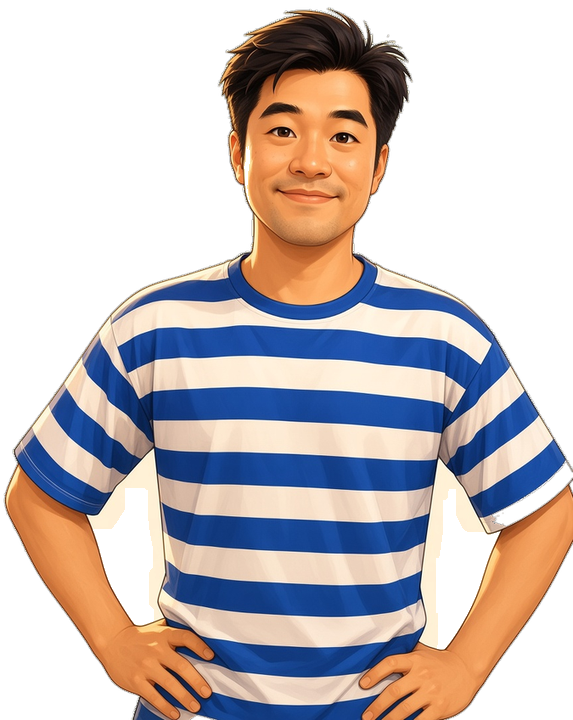
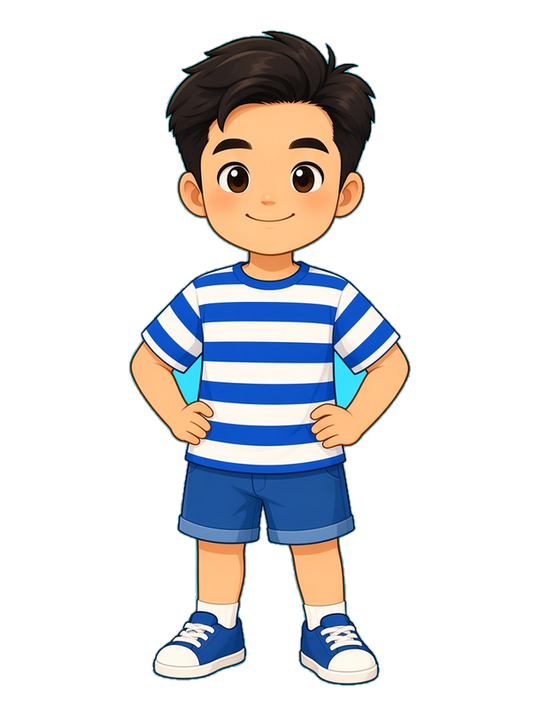
主畫面 3D 眠花糖加大加亮，角色全面改成統一 Q 版立繪
眠花糖改為暖白卡通著色與深藍描邊，放大約 1.5 倍，用三分之四側面讓尾巴黃星露出，跳躍時有壓扁拉長和星星閃光。七名角色依演員介紹卡重繪成 Travel Town 風格的 Q 版 2.5D，保留服裝與髮型辨識度。

diff --git a/js/mascot.js b/js/mascot.js
@@ -1,8 +1,9 @@
 /**
  * 眠花糖 on the play screen.
- * Primary: official TuZi.obj decimated GLB, toon shading + ink outline,
- * idle bounce and a happy jump on merge / order complete.
- * Fallback: official 2D three-view drawings with the same bounce/jump.
+ * Official TuZi GLB with warm toon shading + navy outline,
+ * 3/4 camera so the yellow tail star stays visible,
+ * squash-and-stretch bounce, sparkles on jump.
+ * Fallback: official 2D art with the same animation.
  */
 const POSES = {
   idle: "assets/mascot/front.png",
@@ -21,8 +22,9 @@ const POSES = {
 export function mountMascot(root) {
   root.innerHTML = `
     <div class="mascot-stage">
-      <canvas class="mascot-3d" width="360" height="360" aria-hidden="true"></canvas>
+      <canvas class="mascot-3d" width="512" height="512" aria-hidden="true"></canvas>
       <img class="mascot-2d" alt="眠花糖" src="${POSES.idle}">
+      <div class="mascot-sparkles" aria-hidden="true"><span></span><span></span><span></span><span></span><span></span><span></span></div>
       <div class="mascot-bubble" hidden></div>
     </div>`;
   const img = root.querySelector(".mascot-2d");
@@ -32,11 +34,11 @@ export function mountMascot(root) {
   let pose = "idle";
   let timer = 0;
   let moodUntil = 0;
-  let jump = 0;       // 0–1 jump envelope
+  let jump = 0;
   let jumpVel = 0;
   let targetBounce = 0;
   let mode3d = false;
-  const anim = { bounce: 0, squish: 1, tilt: 0, spin: 0 };
+  const anim = { bounce: 0, squish: 1, tilt: 0, spin: 0, jump: 0 };
 
   function setPose(name, ms = 900) {
     pose = name;
@@ -46,8 +48,8 @@ export function mountMascot(root) {
 
   function startJump(power = 1) {
     jump = Math.max(jump, 0.05);
-    jumpVel = 0.055 * power;
-    targetBounce = 18 * power;
+    jumpVel = 0.062 * power;
+    targetBounce = 22 * power;
   }
 
   function say(text, ms = 1600) {
@@ -74,11 +76,10 @@ export function mountMascot(root) {
 
   function tick(t) {
     timer = t / 1000;
-    // jump physics
     if (jumpVel !== 0 || jump > 0) {
       jump += jumpVel;
-      jumpVel -= 0.0032;
-      if (jump < 0) { jump = 0; jumpVel = jumpVel * -0.35; if (Math.abs(jumpVel) < 0.01) jumpVel = 0; }
+      jumpVel -= 0.0034;
+      if (jump < 0) { jump = 0; jumpVel = jumpVel * -0.38; if (Math.abs(jumpVel) < 0.01) jumpVel = 0; }
     }
     if (performance.now() > moodUntil && !mode3d) {
       const cycle = Math.floor(timer / 3) % 4;
@@ -89,11 +90,14 @@ export function mountMascot(root) {
       }
     }
     targetBounce += (0 - targetBounce) * 0.07;
-    const idleBob = Math.sin(timer * 3.2) * 10;
-    anim.bounce = idleBob + jump * 86 + targetBounce;
-    anim.squish = 1 + Math.sin(timer * 3.2) * 0.05 - jump * 0.18;
-    anim.tilt = Math.sin(timer * 1.5) * 4;
-    anim.spin = Math.sin(timer * 0.7) * 0.28;
+    const idleBob = Math.sin(timer * 3.4) * 14;
+    anim.bounce = idleBob + jump * 96 + targetBounce;
+    // squash on land / stretch at peak
+    const jumpStretch = jump > 0.2 ? -0.16 : (jumpVel < -0.02 ? 0.14 : 0);
+    anim.squish = 1 + Math.sin(timer * 3.4) * 0.07 + jumpStretch;
+    anim.tilt = Math.sin(timer * 1.35) * 5;
+    anim.spin = Math.sin(timer * 0.85) * 0.22;
+    anim.jump = jump;
     const sy = anim.squish, sx = 2 - sy;
     if (!mode3d) {
       img.style.transform = `translateY(${-anim.bounce}px) rotate(${anim.tilt}deg) scale(${sx}, ${sy})`;
@@ -132,46 +136,108 @@ async function boot3d(canvas, img, getAnim, onReady, onFail) {
   const THREE = await import("three");
   const { GLTFLoader } = await import("three/addons/loaders/GLTFLoader.js");
   const scene = new THREE.Scene();
-  const camera = new THREE.PerspectiveCamera(36, 1, 0.1, 40);
-  camera.position.set(1.7, 1.35, 4.8);
-  camera.lookAt(0, 1.0, 0);
+  // Closer 3/4 camera so the bunny fills the stage and the tail star peeks out.
+  const camera = new THREE.PerspectiveCamera(30, 1, 0.1, 40);
+  // Distance ~4.3 so the full 2-unit-tall bunny (with feet and tail star) fits.
+  camera.position.set(2.45, 1.28, 3.85);
+  camera.lookAt(0.0, 0.96, 0);
+
   const renderer = new THREE.WebGLRenderer({ canvas, alpha: true, antialias: true, preserveDrawingBuffer: true });
   renderer.setPixelRatio(Math.min(devicePixelRatio, 2));
-  const fit = () => {
-    const w = canvas.clientWidth || 360, h = canvas.clientHeight || 360;
-    renderer.setSize(w, h, false);
-    camera.aspect = w / Math.max(1, h);
-    camera.updateProjectionMatrix();
-  };
-  fit();
-  new ResizeObserver(fit).observe(canvas.parentElement || canvas);
+  renderer.setClearColor(0x000000, 0);
+  if (THREE.SRGBColorSpace) renderer.outputColorSpace = THREE.SRGBColorSpace;
 
-  scene.add(new THREE.AmbientLight(0xffffff, 1.15));
-  const sun = new THREE.DirectionalLight(0xffffff, 1.15);
-  sun.position.set(2.2, 4.2, 3.2);
-  scene.add(sun);
-  const fill = new THREE.DirectionalLight(0xc5d4ff, 0.35);
-  fill.position.set(-3, 1, -2);
-  scene.add(fill);
-
-  // 4-stop toon ramp
-  const ramp = makeToonRamp(THREE);
-
-  const gltf = await new Promise((resolve, reject) => {
-    new GLTFLoader().load("assets/models/mianhuatang.glb", resolve, undefined, reject);
-  });
-  const bunny = gltf.scene;
-  // Keep official GLB materials (cream body, ink face, yellow tail star).
-  scene.add(bunny);
-
+  let lastW = 0, lastH = 0;
   const ensureSize = () => {
     const w = canvas.clientWidth || 0, h = canvas.clientHeight || 0;
     if (w < 8 || h < 8) return false;
+    if (w === lastW && h === lastH) return true;
+    lastW = w; lastH = h;
     renderer.setSize(w, h, false);
     camera.aspect = w / Math.max(1, h);
     camera.updateProjectionMatrix();
     return true;
   };
+  ensureSize();
+  new ResizeObserver(ensureSize).observe(canvas.parentElement || canvas);
+
+  // Bright, warm lighting so the body stays creamy white, not grey clay.
+  scene.add(new THREE.AmbientLight(0xfff6e8, 1.55));
+  const sun = new THREE.DirectionalLight(0xfff4d6, 1.05);
+  sun.position.set(2.4, 4.6, 3.4);
+  scene.add(sun);
+  const fill = new THREE.DirectionalLight(0xffe8f0, 0.45);
+  fill.position.set(-3.2, 1.6, 1.2);
+  scene.add(fill);
+  const rim = new THREE.DirectionalLight(0xffed00, 0.35);
+  rim.position.set(-1.2, 1.0, -3.2);
+  scene.add(rim);
+
+  const bodyRamp = makeToonRamp(THREE, [
+    [255, 228, 210],
+    [255, 244, 232],
+    [255, 251, 244],
+    [255, 255, 252]
+  ]);
+  const inkRamp = makeToonRamp(THREE, [
+    [36, 42, 72],
+    [50, 58, 92],
+    [70, 80, 120],
+    [90, 100, 140]
+  ]);
+  const starRamp = makeToonRamp(THREE, [
+    [230, 180, 0],
+    [255, 220, 40],
+    [255, 237, 0],
+    [255, 252, 160]
+  ]);
+
+  const gltf = await new Promise((resolve, reject) => {
+    new GLTFLoader().load("assets/models/mianhuatang.glb", resolve, undefined, reject);
+  });
+  const bunny = gltf.scene;
+  const outlineMat = new THREE.MeshBasicMaterial({
+    color: 0x3b4468, side: THREE.BackSide, depthWrite: true
+  });
+  const meshes = [];
+  bunny.traverse((o) => { if (o.isMesh) meshes.push(o); });
+  for (const o of meshes) {
+    const c = o.material && o.material.color;
+    let kind = "body";
+    if (!o.geometry.boundingBox) o.geometry.computeBoundingBox();
+    const bb = o.geometry.boundingBox;
+    // The official tail star sits at the back (min z < -0.74) and low on the body.
+    if (bb && bb.min.z < -0.74 && bb.max.y < 0.9) kind = "star";
+    else if (c) {
+      const hsl = { h: 0, s: 0, l: 0 };
+      c.getHSL(hsl);
+      if (hsl.s > 0.35 && c.r > 0.7 && c.g > 0.55 && c.b < 0.45) kind = "star";
+      else if (hsl.l < 0.45) kind = "ink";
+    }
+    let mat;
+    if (kind === "star") {
+      mat = new THREE.MeshToonMaterial({ color: 0xffed00, gradientMap: starRamp, emissive: 0xffc400, emissiveIntensity: 0.35 });
+    } else if (kind === "ink") {
+      mat = new THREE.MeshToonMaterial({ color: 0x3b4468, gradientMap: inkRamp });
+    } else {
+      mat = new THREE.MeshToonMaterial({ color: 0xfff7ee, gradientMap: bodyRamp });
+    }
+    o.material = mat;
+    if (kind === "star") {
+      o.scale.setScalar(1.55);
+      o.position.z -= 0.18; // peek out from behind the body
+      o.renderOrder = 2;
+    } else {
+      const out = new THREE.Mesh(o.geometry, outlineMat);
+      out.name = "outline";
+      out.scale.setScalar(1.028);
+      out.renderOrder = 0;
+      o.renderOrder = 1;
+      o.add(out);
+    }
+  }
+  scene.add(bunny);
+
   if (!ensureSize()) {
     await new Promise((resolve) => {
       const ro = new ResizeObserver(() => { if (ensureSize()) { ro.disconnect(); resolve(); } });
@@ -185,7 +251,6 @@ async function boot3d(canvas, img, getAnim, onReady, onFail) {
   canvas.style.display = "block";
   onReady();
 
-  // If the canvas stays empty (hidden-at-boot WebGL / software renderer), go back to official 2D.
   setTimeout(() => {
     try {
       const gl = renderer.getContext();
@@ -209,9 +274,10 @@ async function boot3d(canvas, img, getAnim, onReady, onFail) {
     const t = (now - t0) / 1000;
     const a = getAnim();
     ensureSize();
-    bunny.rotation.y = 0.35 + a.spin * 0.45;
+    // Base 3/4 yaw keeps the yellow tail star visible on the bunny's right; gentle sway.
+    bunny.rotation.y = 0.95 + a.spin * 0.55;
     bunny.rotation.z = a.tilt * 0.012;
-    bunny.position.y = a.bounce * 0.012;
+    bunny.position.y = a.bounce * 0.010;
     const sy = a.squish;
     bunny.scale.set(2 - sy, sy, 2 - sy);
     renderer.render(scene, camera);
@@ -220,16 +286,18 @@ async function boot3d(canvas, img, getAnim, onReady, onFail) {
   requestAnimationFrame(loop);
 }
 
-function makeToonRamp(THREE) {
-  const data = new Uint8Array([
-    70, 70, 70, 255,
-    130, 130, 130, 255,
-    190, 190, 190, 255,
-    255, 255, 255, 255
-  ]);
-  const tex = new THREE.DataTexture(data, 4, 1, THREE.RGBAFormat);
+function makeToonRamp(THREE, stops) {
+  const data = new Uint8Array(stops.length * 4);
+  stops.forEach((s, i) => {
+    data[i * 4] = s[0];
+    data[i * 4 + 1] = s[1];
+    data[i * 4 + 2] = s[2];
+    data[i * 4 + 3] = 255;
+  });
+  const tex = new THREE.DataTexture(data, stops.length, 1, THREE.RGBAFormat);
   tex.minFilter = THREE.NearestFilter;
   tex.magFilter = THREE.NearestFilter;
   tex.needsUpdate = true;
+  if (THREE.SRGBColorSpace) tex.colorSpace = THREE.SRGBColorSpace;
   return tex;
 }

diff --git a/css/app.css b/css/app.css
@@ -105,13 +105,31 @@ a{color:var(--ink)}
 .order .rew{font-size:11px;color:var(--muted);white-space:nowrap}
 
 .play-main{flex:1;display:flex;gap:10px;min-height:0;align-items:center;justify-content:center;overflow:hidden;position:relative;z-index:1}
-.mascot-col{flex:0 0 200px;display:flex;align-items:flex-end;justify-content:center;min-width:0}
-.mascot-stage{position:relative;width:100%;max-width:220px;aspect-ratio:1;filter:drop-shadow(0 12px 18px rgba(59,68,104,.2))}
-.mascot-stage[data-jumping="1"]{filter:drop-shadow(0 18px 22px rgba(59,68,104,.28))}
+.mascot-col{flex:0 0 320px;display:flex;align-items:flex-end;justify-content:center;min-width:0}
+.mascot-stage{position:relative;width:100%;max-width:340px;aspect-ratio:1;filter:drop-shadow(0 14px 20px rgba(59,68,104,.22));overflow:visible}
+.mascot-stage[data-jumping="1"]{filter:drop-shadow(0 22px 26px rgba(59,68,104,.3))}
 .mascot-3d{position:absolute;inset:0;width:100%;height:100%;display:block;pointer-events:none;z-index:1}
-.mascot-2d{position:relative;z-index:1}
 .mascot-2d{position:relative;z-index:1;width:100%;height:100%;object-fit:contain;transform-origin:50% 90%;will-change:transform;pointer-events:none}
-.mascot-bubble{position:absolute;z-index:2;left:50%;bottom:92%;transform:translateX(-50%);background:#fff;color:var(--ink);font-weight:700;font-size:13px;padding:6px 10px;border-radius:14px;box-shadow:var(--shadow);white-space:nowrap}
+.mascot-sparkles{position:absolute;inset:0;pointer-events:none;z-index:3;overflow:visible}
+.mascot-sparkles span{position:absolute;width:12px;height:12px;background:var(--yellow);clip-path:polygon(50% 0,61% 35%,100% 35%,68% 57%,79% 100%,50% 72%,21% 100%,32% 57%,0 35%,39% 35%);opacity:0;filter:drop-shadow(0 0 3px rgba(255,237,0,.9))}
+.mascot-sparkles span:nth-child(1){left:18%;top:28%}
+.mascot-sparkles span:nth-child(2){left:70%;top:22%}
+.mascot-sparkles span:nth-child(3){left:78%;top:48%}
+.mascot-sparkles span:nth-child(4){left:12%;top:52%}
+.mascot-sparkles span:nth-child(5){left:42%;top:8%}
+.mascot-sparkles span:nth-child(6){left:58%;top:62%}
+.mascot-stage[data-jumping="1"] .mascot-sparkles span{animation:spark-pop .7s ease-out forwards}
+.mascot-stage[data-jumping="1"] .mascot-sparkles span:nth-child(2){animation-delay:.05s}
+.mascot-stage[data-jumping="1"] .mascot-sparkles span:nth-child(3){animation-delay:.1s}
+.mascot-stage[data-jumping="1"] .mascot-sparkles span:nth-child(4){animation-delay:.08s}
+.mascot-stage[data-jumping="1"] .mascot-sparkles span:nth-child(5){animation-delay:.02s}
+.mascot-stage[data-jumping="1"] .mascot-sparkles span:nth-child(6){animation-delay:.14s}
+@keyframes spark-pop{
+  0%{opacity:0;transform:translateY(8px) scale(.25) rotate(0)}
+  35%{opacity:1;transform:translateY(-10px) scale(1.15) rotate(18deg)}
+  100%{opacity:0;transform:translateY(-34px) scale(.5) rotate(40deg)}
+}
+.mascot-bubble{position:absolute;z-index:4;left:50%;bottom:92%;transform:translateX(-50%);background:#fff;color:var(--ink);font-weight:700;font-size:13px;padding:6px 10px;border-radius:14px;box-shadow:var(--shadow);white-space:nowrap}
 .mascot-bubble:after{content:"";position:absolute;left:50%;top:100%;border:6px solid transparent;border-top-color:#fff;margin-left:-6px}
 
 .board{display:grid;grid-template-columns:repeat(var(--cols,7),1fr);grid-template-rows:repeat(var(--rows,6),1fr);gap:6px;min-height:0;margin:0 auto;aspect-ratio:7/6;height:100%;width:auto;max-width:100%;max-height:100%;padding:10px;background:linear-gradient(180deg,rgba(255,255,255,.78),rgba(228,237,216,.7));border:3px solid rgba(255,255,255,.9);border-radius:22px;box-shadow:var(--shadow),inset 0 0 0 1px rgba(59,68,104,.06);backdrop-filter:blur(6px);touch-action:none}
@@ -197,8 +215,8 @@ a{color:var(--ink)}
 
 @media (max-width:820px){
   .play-main{flex-direction:column;overflow:hidden;gap:4px}
-  .mascot-col{flex:none;height:120px;align-items:flex-end;justify-content:center}
-  .mascot-stage{max-width:128px}
+  .mascot-col{flex:none;height:148px;align-items:flex-end;justify-content:center;overflow:visible;position:relative;z-index:3;margin-bottom:-18px}
+  .mascot-stage{max-width:200px;width:200px}
   .board{width:100% !important;height:auto !important;aspect-ratio:7/6 !important;flex:none;max-height:none}
   .inv-cells{grid-template-columns:repeat(8,1fr)}
   .order{flex:0 0 188px}

diff --git a/README.md b/README.md
@@ -47,4 +47,4 @@ FANTACO 魔幻藝術節的免費親子瀏覽器遊戲。把兩個一樣的寶物
 
 ## 美術與音樂
 
-眠花糖使用官方 3D 模型（TuZi.obj 精簡為約 0.5MB 的 GLB，平塗填色＋深藍描邊，接近主視覺線條）在主畫面跳動；官方主視覺三視圖仍作為載入失敗時的備案。角色立繪依《演員介紹卡》官方劇照重繪成可愛 2.5D 風格。所有合成階梯與產生器改為有光澤、陰影和稀有度光暈的繪製卡面；部分階梯道具為延伸創作，會在資料裡標示。版面支援劉海／Dynamic Island 與底部橫條安全區（viewport-fit=cover）。章節配樂為原創短旋律；過關時播放的是官方〈飛向藍藍天〉錄音的副歌片段（從「飛向藍藍天_MMM v1.wav」第 72–100 秒擷取）。
+眠花糖使用官方 3D 模型（TuZi.obj 精簡為約 0.5MB 的 GLB，暖白卡通著色＋深藍描邊，三分之四側面可看見尾巴黃星）在主畫面放大跳動，合成時會有星星閃光；官方主視覺三視圖仍作為載入失敗時的備案。角色立繪依《演員介紹卡》官方劇照重繪成統一的 Q 版／中頭身 2.5D（Travel Town 風格），不是寫實人像。所有合成階梯與產生器改為有光澤、陰影和稀有度光暈的繪製卡面；部分階梯道具為延伸創作，會在資料裡標示。版面支援劉海／Dynamic Island 與底部橫條安全區（viewport-fit=cover）。章節配樂為原創短旋律；過關時播放的是官方〈飛向藍藍天〉錄音的副歌片段（從「飛向藍藍天_MMM v1.wav」第 72–100 秒擷取）。
